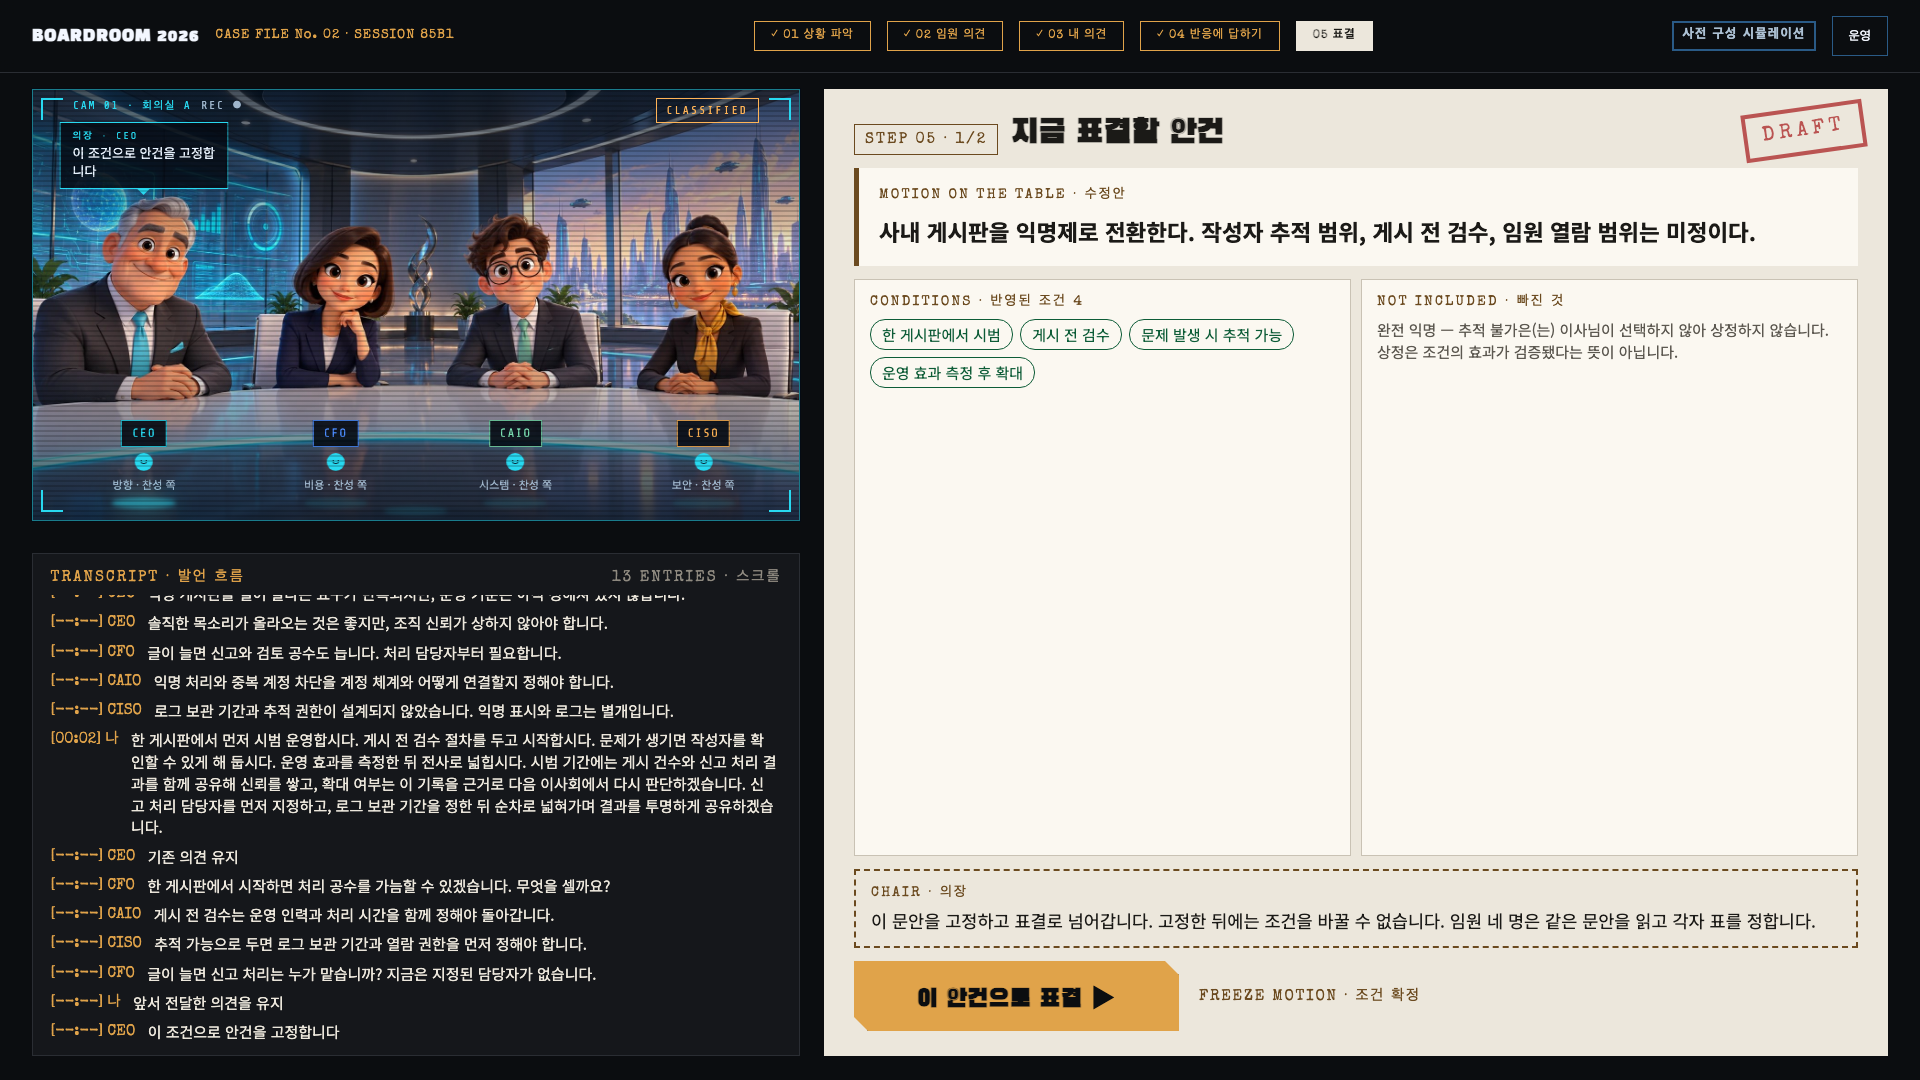
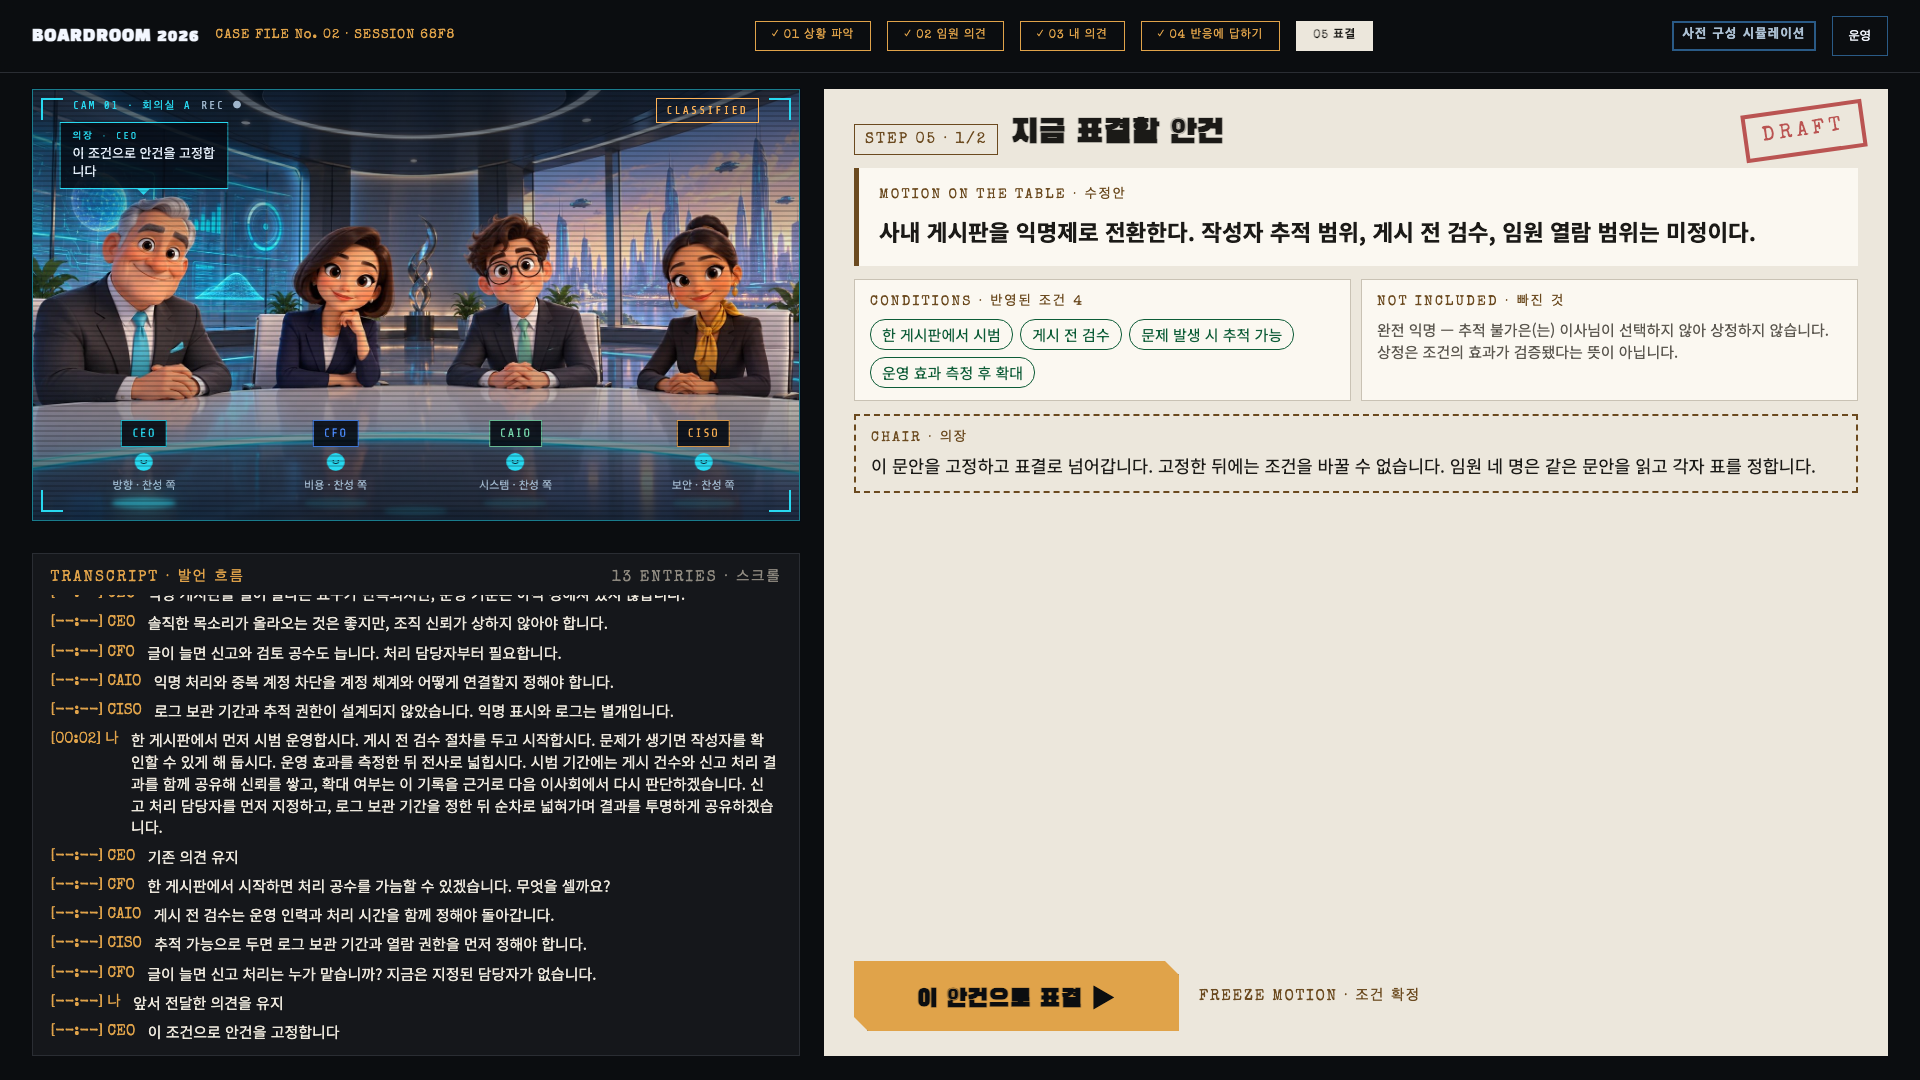
T75 수정: MOTION CONDITIONS·NOT INCLUDED 2열을 내용 높이로 되돌려 빈 공간 위치를 시안에 맞춤
CONDITIONS·NOT INCLUDED 2열 상자가 flex:1로 남는 세로 공간을 억지로 채워
안쪽이 텅 빈 채 늘어나 있었다 — S5_Motion.html·preview/S5_Motion.png는 이
두 상자를 내용 높이 그대로 두고, CHAIR 점선 상자가 바로 뒤따르며, 남는
공간은 CHAIR 상자와 바닥 CTA 줄 사이(margin-top:auto)에 모인다. motion.css의
.motion-screen__cols에서 flex:1을 빼고 flex-shrink:0 + align-content:start로
바꿔 시안과 같은 분포로 되돌렸다.

npm run check(단위 390)·npm run build·playwright(격리 포트 8790/4174,
flow-full·noscroll·screenshots) 모두 통과. 두 해상도 motion.png를
preview/S5_Motion.png와 다시 육안 대조(빈 공간 위치 일치 확인).

Changed region(s): [[0.4375, 0.7944, 0.9375, 0.8861], [0.4375, 0.3972, 0.9688, 0.4583]]

diff --git a/src/styles/screens/motion.css b/src/styles/screens/motion.css
@@ -160,12 +160,16 @@
   }
 }
 
-/* CONDITIONS · NOT INCLUDED 2열(시안). */
+/* CONDITIONS · NOT INCLUDED 2열(시안 — 내용 높이만큼만 차지한다. 2026-10-02
+   검수 지적: flex:1로 남는 세로 공간을 억지로 채우면 두 상자 안쪽이 텅 비어
+   보인다 — 시안은 이 두 상자를 내용 높이 그대로 두고, 남는 공간은 바로 아래
+   CHAIR 상자와 바닥 CTA 줄 사이(`.motion-screen__cta-row`의
+   `margin-top:auto`)에 모인다). */
 .motion-screen__cols {
-  flex: 1;
-  min-height: 0;
+  flex-shrink: 0;
   display: grid;
   grid-template-columns: repeat(2, minmax(0, 1fr));
+  align-content: start;
   gap: 10px;
 }
 
